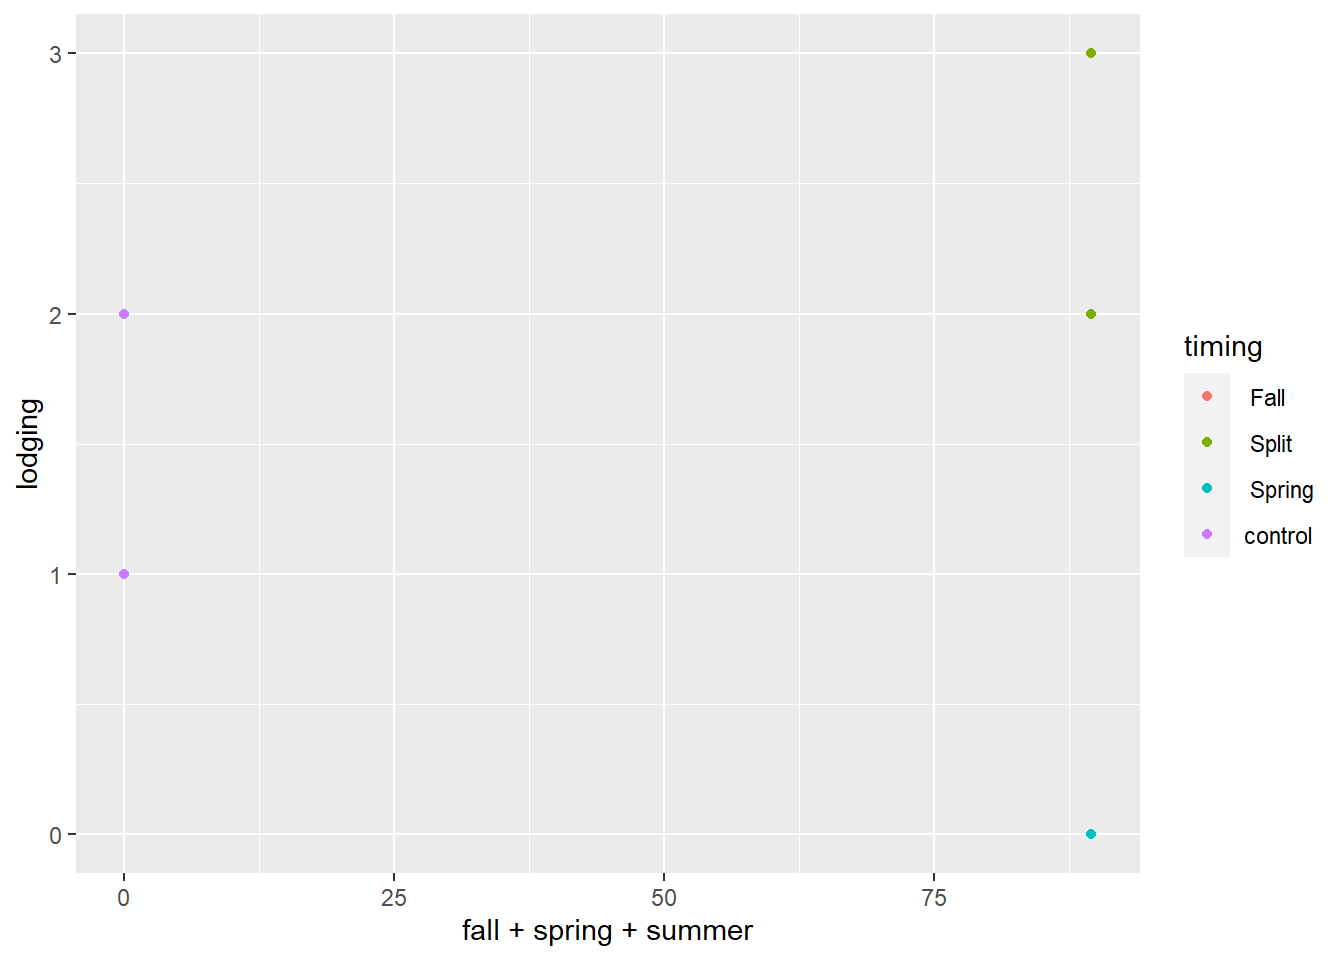
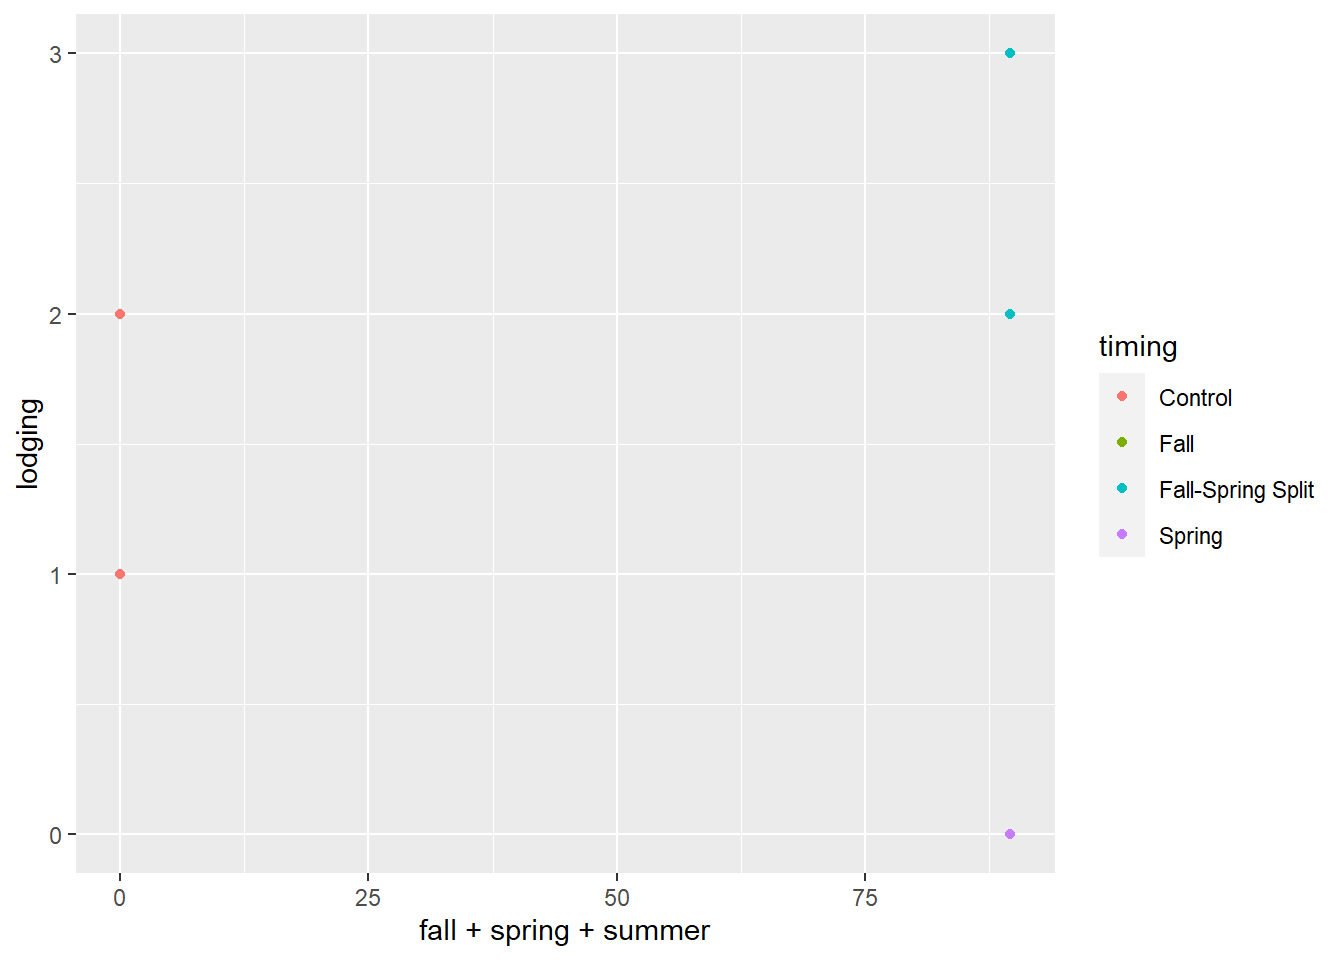
modeling cumulative yield in the dataset where we are in the third yield

diff --git a/nrate_draft.html b/nrate_draft.html
@@ -170,12 +170,12 @@ Signif. codes:  0 '***' 0.001 '**' 0.01 '*' 0.05 '.' 0.1 ' ' 1</code></pre>
 <p>We cannot reject Ho that timing has an impact on lodging.</p>
 <div class="cell">
 <div class="cell-output cell-output-stdout">
-<pre><code> timing        emmean    SE df lower.CL upper.CL .group
- control        0.333 1.559 49    -2.80     3.47  1    
-  fall          6.500 0.779 49     4.93     8.07   2   
-  fall split    8.083 0.779 49     6.52     9.65   2   
-  spring split  8.167 0.779 49     6.60     9.73   2   
-  spring        8.267 0.697 49     6.87     9.67   2   
+<pre><code> timing       emmean    SE df lower.CL upper.CL .group
+ Control       0.333 1.559 49    -2.80     3.47  1    
+ Fall          6.500 0.779 49     4.93     8.07   2   
+ Fall Split    8.083 0.779 49     6.52     9.65   2   
+ Spring Split  8.167 0.779 49     6.60     9.73   2   
+ Spring        8.267 0.697 49     6.87     9.67   2   
 
 Confidence level used: 0.95 
 P value adjustment: tukey method for comparing a family of 5 estimates 
@@ -279,7 +279,98 @@ Residuals 30 0.181829 0.006061               </code></pre>
 </section>
 <section id="yield" class="level1">
 <h1>Yield</h1>
-<p>then we need to get R100 year 3 data out of the yield dataset because it will drag it down for lodging</p>
+<section id="cumulative" class="level2">
+<h2 class="anchored" data-anchor-id="cumulative">cumulative</h2>
+<p>Cumulative yield of kernza stands after 3 years of N fertilizer (V17 and Staples)</p>
+<div class="cell">
+<div class="cell-output-display">
+<p><img src="nrate_draft_files/figure-html/unnamed-chunk-20-1.png" class="img-fluid" width="672"></p>
+</div>
+</div>
+<p>We only have 3 common timings between V17 and Staples, so we are only looking at those comparisons</p>
+<section id="linear-model" class="level3">
+<h3 class="anchored" data-anchor-id="linear-model">linear model</h3>
+<div class="cell">
+<div class="cell-output cell-output-stdout">
+<pre><code>Analysis of Variance Table
+
+Response: yield.cum
+                     Df  Sum Sq Mean Sq F value    Pr(&gt;F)    
+cumn                  1  272276  272276  3.2096 0.0833017 .  
+timing                2 1603189  801595  9.4492 0.0006568 ***
+location              1 2559346 2559346 30.1695 5.797e-06 ***
+cumn:timing           2   63325   31662  0.3732 0.6916546    
+cumn:location         1   81481   81481  0.9605 0.3349005    
+timing:location       2   12857    6429  0.0758 0.9271962    
+cumn:timing:location  1   53887   53887  0.6352 0.4317110    
+Residuals            30 2544967   84832                      
+---
+Signif. codes:  0 '***' 0.001 '**' 0.01 '*' 0.05 '.' 0.1 ' ' 1</code></pre>
+</div>
+</div>
+<p>No difference in total yield based on cumulative N, but difference from timing and location</p>
+<p>Updating model to remove the rate of n term (cumn), since it apparently didn’t matter</p>
+<div class="cell">
+<div class="cell-output cell-output-stdout">
+<pre><code> timing  emmean    SE df lower.CL upper.CL .group
+ Control   1109 112.0 35      881     1336  1    
+ Spring    1778  77.2 35     1621     1935   2   
+ Fall      1856  79.2 35     1695     2017   2   
+
+Results are averaged over the levels of: location 
+Confidence level used: 0.95 
+P value adjustment: tukey method for comparing a family of 3 estimates 
+significance level used: alpha = 0.05 
+NOTE: If two or more means share the same grouping symbol,
+      then we cannot show them to be different.
+      But we also did not show them to be the same. </code></pre>
+</div>
+</div>
+<div class="cell">
+<div class="cell-output-display">
+<p><img src="nrate_draft_files/figure-html/unnamed-chunk-23-1.png" class="img-fluid" width="672"></p>
+</div>
+</div>
+<p>BIG TAKEAWAY: Two locations over 3 years of nitrogen application at different rates and timings. We cannot reject Ho that the amount of N matters when modelled with a linear regression, whether 20 kg N ha or 140 kg N ha, when looked at over multiple years there was not a clear rate winner. We were able to reject the Ho that applying N results in more yield than the control, but the timing of spring vs.&nbsp;fall did not matter.</p>
+</section>
+<section id="quadratic-model" class="level3">
+<h3 class="anchored" data-anchor-id="quadratic-model">quadratic model</h3>
+<p>Let’s look at N rate even though it aparently didn’t matter</p>
+<div class="cell">
+<div class="cell-output-display">
+<p><img src="nrate_draft_files/figure-html/unnamed-chunk-24-1.png" class="img-fluid" width="672"></p>
+</div>
+<div class="cell-output cell-output-stdout">
+<pre><code>[1] 1000.713</code></pre>
+</div>
+<div class="cell-output cell-output-stdout">
+<pre><code>[1] 1020.782</code></pre>
+</div>
+</div>
+<p>Ok, so there is an effect of cumulative N when modelled quadratically versus linear</p>
+<div class="cell">
+<div class="cell-output cell-output-stdout">
+<pre><code>Analysis of Variance Table
+
+Response: yield.cum
+                       Df  Sum Sq Mean Sq F value    Pr(&gt;F)    
+poly(cumn, 2)           2 2011131 1005565 12.0239 0.0001701 ***
+location                1 2181936 2181936 26.0901 2.065e-05 ***
+timing                  2  284394  142197  1.7003 0.2009473    
+poly(cumn, 2):location  2  114253   57126  0.6831 0.5132778    
+poly(cumn, 2):timing    3  186149   62050  0.7419 0.5360498    
+location:timing         2   71804   35902  0.4293 0.6551831    
+Residuals              28 2341662   83631                      
+---
+Signif. codes:  0 '***' 0.001 '**' 0.01 '*' 0.05 '.' 0.1 ' ' 1</code></pre>
+</div>
+</div>
+<p>Now that I’m modeling quadratically, we can reject the Ho there is no relationship between nitrogen rate and yield, but we cannot reject Ho that timing doesn’t matter</p>
+<div class="cell">
+
+</div>
+</section>
+</section>
 </section>
 
 </main>
